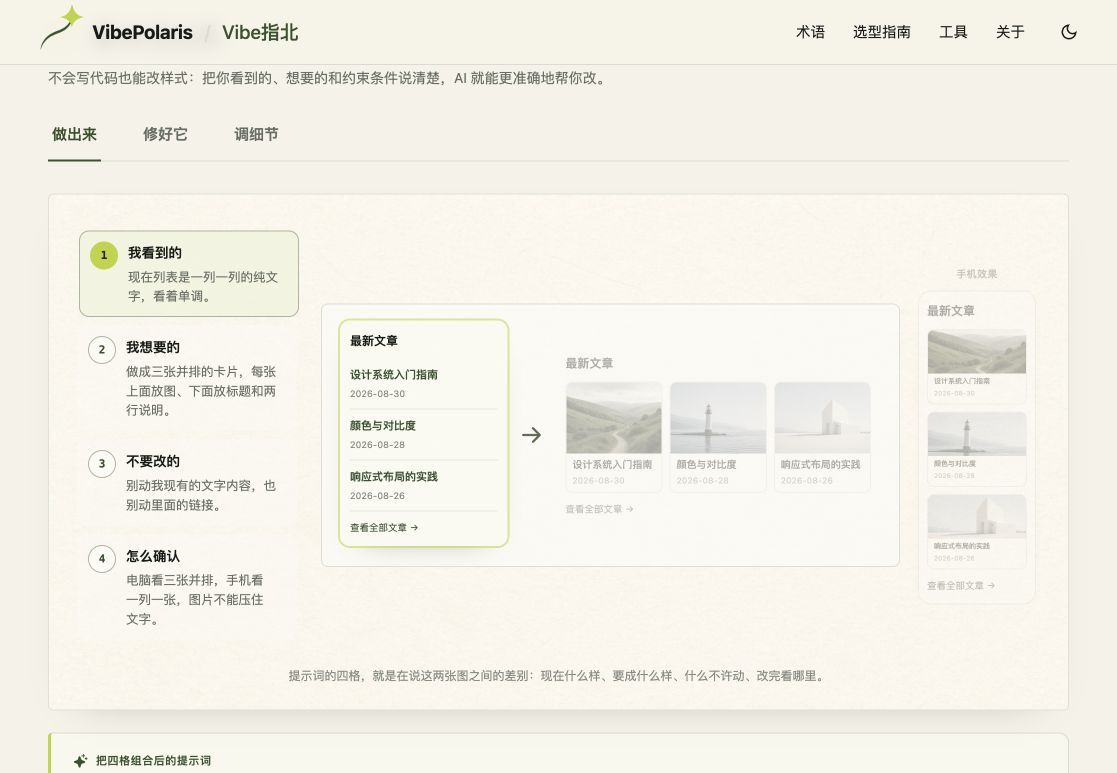
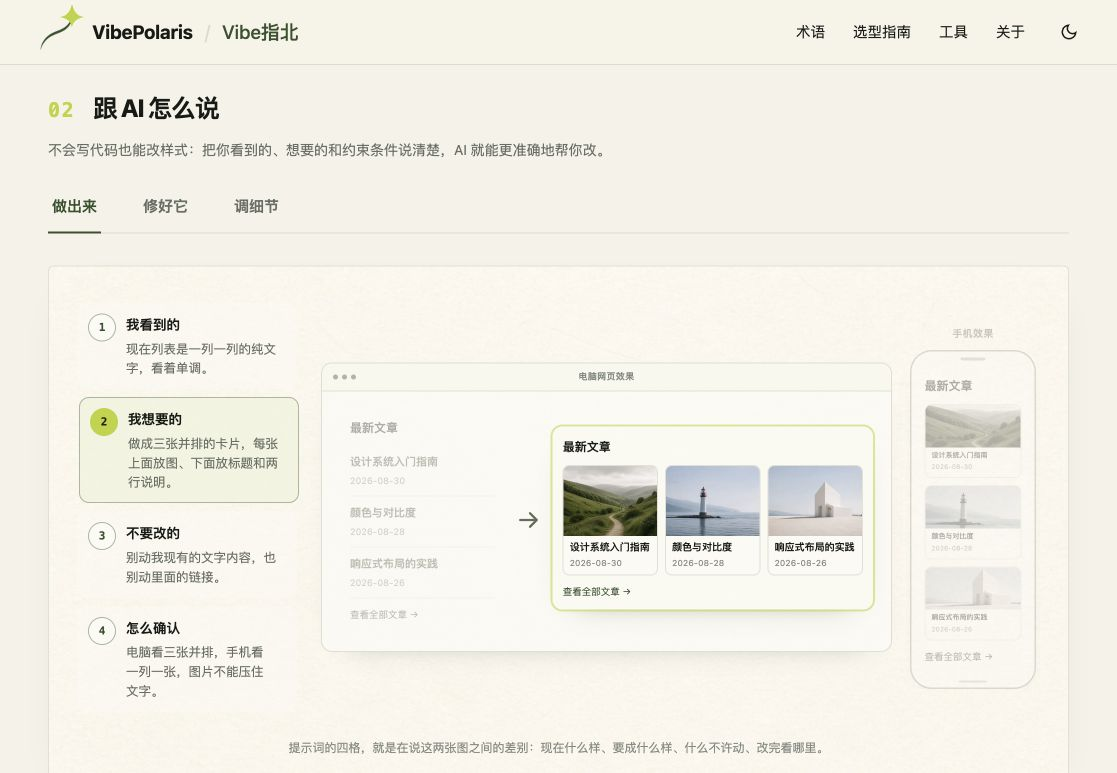
feat(VBP-001): frame CSS previews as devices

diff --git a/app/globals.css b/app/globals.css
@@ -3132,16 +3132,24 @@ table.cmp td:first-child, table.cmp th:first-child { color: var(--ink); font-wei
 .term-scenario-tabs button.is-active { border-bottom-color: var(--accent); }
 .term-scenario-tabs button.is-active strong { color: var(--accent); }
 .term-ai-canvas { position: relative; display: grid; grid-template-columns: minmax(190px, 220px) minmax(0, 1fr); grid-template-areas: "notes scene" "caption caption"; gap: 24px; align-items: center; margin-top: 32px; min-height: 500px; padding: 36px 28px 24px; background-color: var(--surface); background-image: url("/images/css-ai-guide/paper-texture.jpg"); background-size: cover; border: 1px solid color-mix(in srgb, var(--hairline) 82%, transparent); border-radius: 5px; box-shadow: 0 16px 42px -34px color-mix(in srgb, var(--ink) 42%, transparent); }
-.term-ai-scene { grid-area: scene; display: grid; grid-template-columns: minmax(0, 1fr) 126px; gap: 14px; align-items: center; min-width: 0; }
-.term-ai-desktop-flow { display: grid; grid-template-columns: minmax(0, .72fr) auto minmax(0, 1.4fr); gap: 12px; align-items: center; min-width: 0; overflow: hidden; border: 1px solid color-mix(in srgb, var(--hairline) 90%, transparent); border-radius: 7px; padding: 18px; background: color-mix(in srgb, var(--surface) 80%, transparent); }
+.term-ai-scene { grid-area: scene; display: grid; grid-template-columns: minmax(0, 1fr) 134px; gap: 14px; align-items: center; min-width: 0; }
+.term-ai-desktop-device { min-width: 0; overflow: hidden; border: 1px solid color-mix(in srgb, var(--hairline) 90%, transparent); border-radius: 11px; background: color-mix(in srgb, var(--surface) 80%, transparent); box-shadow: 0 14px 30px -28px color-mix(in srgb, var(--ink) 45%, transparent); }
+.term-ai-device-bar { display: grid; grid-template-columns: 1fr auto 1fr; align-items: center; min-height: 28px; padding: 0 11px; border-bottom: 1px solid color-mix(in srgb, var(--hairline) 80%, transparent); background: color-mix(in srgb, var(--surface) 72%, var(--tint)); color: var(--faint); font-size: 9px; font-weight: 700; letter-spacing: .04em; }
+.term-ai-device-bar > i { width: 24px; }
+.term-ai-device-dots { display: flex; gap: 4px; }
+.term-ai-device-dots i { width: 5px; height: 5px; border-radius: 50%; background: color-mix(in srgb, var(--faint) 62%, transparent); }
+.term-ai-desktop-flow { display: grid; grid-template-columns: minmax(0, .72fr) auto minmax(0, 1.4fr); gap: 12px; align-items: center; min-width: 0; overflow: hidden; padding: 16px 18px 18px; }
 .term-ai-desktop-flow > .term-ai-target { min-width: 0; }
 .term-ai-scene-arrow { flex: none; color: color-mix(in srgb, var(--accent) 48%, var(--faint)); }
 .term-ai-phone-preview { display: grid; gap: 8px; justify-items: center; }
 .term-ai-phone-preview > span { color: var(--muted); font-size: 10px; font-weight: 700; letter-spacing: .04em; }
+.term-ai-phone-device { position: relative; width: 126px; padding: 15px 5px 13px; border: 1.5px solid color-mix(in srgb, var(--accent) 42%, var(--hairline)); border-radius: 22px; background: color-mix(in srgb, var(--surface) 92%, transparent); box-shadow: inset 0 0 0 2px color-mix(in srgb, var(--surface) 70%, transparent), 0 14px 30px -24px color-mix(in srgb, var(--ink) 56%, transparent); }
+.term-ai-phone-device::before { content: ""; position: absolute; top: 6px; left: 50%; width: 25px; height: 3px; border-radius: 999px; background: color-mix(in srgb, var(--faint) 62%, transparent); transform: translateX(-50%); }
+.term-ai-phone-device::after { content: ""; position: absolute; bottom: 5px; left: 50%; width: 28px; height: 2px; border-radius: 999px; background: color-mix(in srgb, var(--faint) 52%, transparent); transform: translateX(-50%); }
 .term-ai-scene-caption { grid-area: caption; margin: 2px 0 0; color: var(--faint); font-size: 12px; line-height: 1.65; text-align: center; }
 .term-mini-page { display: grid; gap: 8px; min-width: 0; border-radius: 7px; padding: 10px; background: color-mix(in srgb, var(--surface) 88%, transparent); }
 .term-mini-page.is-wide { width: 100%; }
-.term-mini-page.is-phone { width: 118px; border: 1px solid var(--hairline); border-radius: 13px; padding: 9px 8px 10px; box-shadow: 0 10px 24px -20px color-mix(in srgb, var(--ink) 55%, transparent); }
+.term-mini-page.is-phone { width: 100%; border: 0; border-radius: 14px; padding: 9px 8px 10px; box-shadow: none; }
 .term-mini-title { font-size: 12px; color: var(--ink); }
 .term-mini-list { list-style: none; display: grid; gap: 0; }
 .term-mini-list li { display: grid; gap: 2px; border-bottom: 1px solid color-mix(in srgb, var(--hairline) 72%, transparent); padding: 7px 0; }
@@ -3657,7 +3665,7 @@ table.cmp td:first-child, table.cmp th:first-child { color: var(--ink); font-wei
   .term-ai-desktop-flow .term-ai-scene-arrow { justify-self: center; transform: rotate(90deg); }
   .term-ai-desktop-flow .term-mini-page.is-wide { width: 100%; }
   .term-ai-phone-preview { border-top: 1px solid color-mix(in srgb, var(--hairline) 76%, transparent); padding-top: 16px; }
-  .term-ai-phone-preview .term-mini-page.is-phone { width: min(100%, 180px); }
+  .term-ai-phone-device { width: min(100%, 194px); padding: 17px 7px 15px; border-radius: 28px; }
   .term-ai-scene-caption { margin-top: 16px; }
   .term-ai-notes { grid-template-columns: repeat(2, minmax(0, 1fr)); gap: 8px; align-content: start; }
   .term-ai-note-trigger { height: 100%; min-height: 94px; padding: 10px 8px; }

diff --git a/components/TermDetailExperience.tsx b/components/TermDetailExperience.tsx
@@ -427,18 +427,27 @@ function FoundationAiGuide({ guide }: { guide: FoundationTerm["aiGuide"] }) {
           ))}
         </ol>
         <div className="term-ai-scene" aria-label="页面修改前、修改后与手机效果示意">
-          <div className="term-ai-desktop-flow">
-            <div className="term-ai-target term-ai-target-seen" id="term-ai-target-seen">
-              <MiniPage page={active.scene.from} images={guide.images} />
+          <div className="term-ai-desktop-device">
+            <div className="term-ai-device-bar" aria-hidden="true">
+              <span className="term-ai-device-dots"><i /><i /><i /></span>
+              <span>电脑网页效果</span>
+              <i />
             </div>
-            <ArrowRight size={24} weight="bold" className="term-ai-scene-arrow" aria-hidden="true" />
-            <div className="term-ai-target term-ai-target-want" id="term-ai-target-want">
-              <MiniPage page={active.scene.to} images={guide.images} />
+            <div className="term-ai-desktop-flow">
+              <div className="term-ai-target term-ai-target-seen" id="term-ai-target-seen">
+                <MiniPage page={active.scene.from} images={guide.images} />
+              </div>
+              <ArrowRight size={24} weight="bold" className="term-ai-scene-arrow" aria-hidden="true" />
+              <div className="term-ai-target term-ai-target-want" id="term-ai-target-want">
+                <MiniPage page={active.scene.to} images={guide.images} />
+              </div>
             </div>
           </div>
           <div className="term-ai-phone-preview term-ai-target term-ai-target-verify" id="term-ai-target-verify">
             <span>手机效果</span>
-            <MiniPage page={phonePreview} images={guide.images} />
+            <div className="term-ai-phone-device">
+              <MiniPage page={phonePreview} images={guide.images} />
+            </div>
           </div>
         </div>
         <p className="sr-only" aria-live="polite">

diff --git a/docs/design/qa/css-ai-note-rail-2026-09-01/design-qa.md b/docs/design/qa/css-ai-note-rail-2026-09-01/design-qa.md
@@ -9,6 +9,7 @@
 ## 布局
 
 - 桌面端将 1–4 编号、标题和说明文字合并为左侧单列，右侧只保留前后与手机效果。
+- 电脑效果使用带三颗窗口控制点和标题栏的浏览器外框；手机效果使用带听筒、圆角机身和底部手势条的手机外框。
 - 手机端四项说明在画面上方排成两列，随后展示效果图。
 - 桌面端说明列为 220px，效果区为 719px；手机端说明列为 154px × 2。
 - 两个视口的页面横向溢出均为 0px。
@@ -17,6 +18,7 @@
 
 - 悬停「1 我看到的」后，当前区域保持 100% 不透明，其余区域降至 34%。
 - 点击「4 怎么确认」后，手机效果区域保持 100% 不透明，对应按钮进入选中状态。
+- 新增设备外框后，悬停「2 我想要的」仍只突出改后网页区域，其余设备内容降至 34%。
 - 切换场景会清除旧的强调状态。
 - 控制台无 error 或 warning。
 
